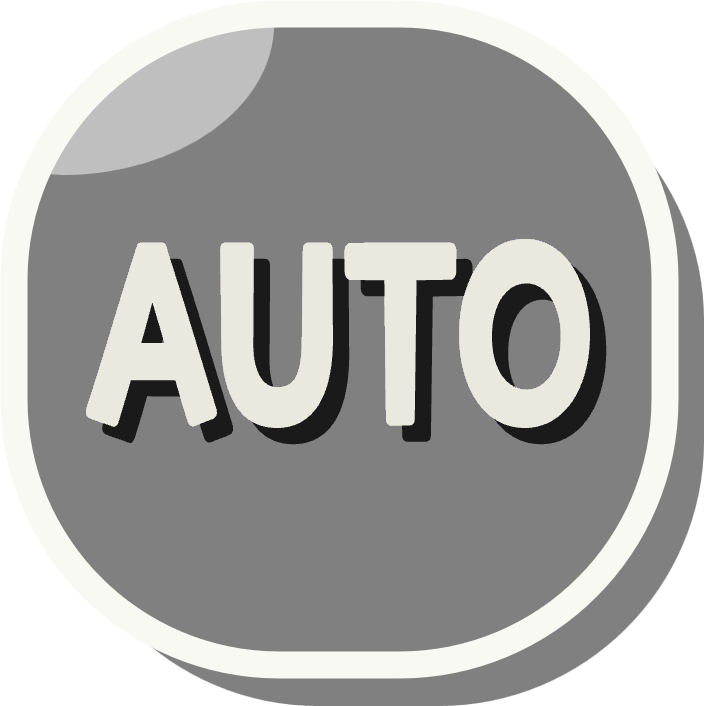
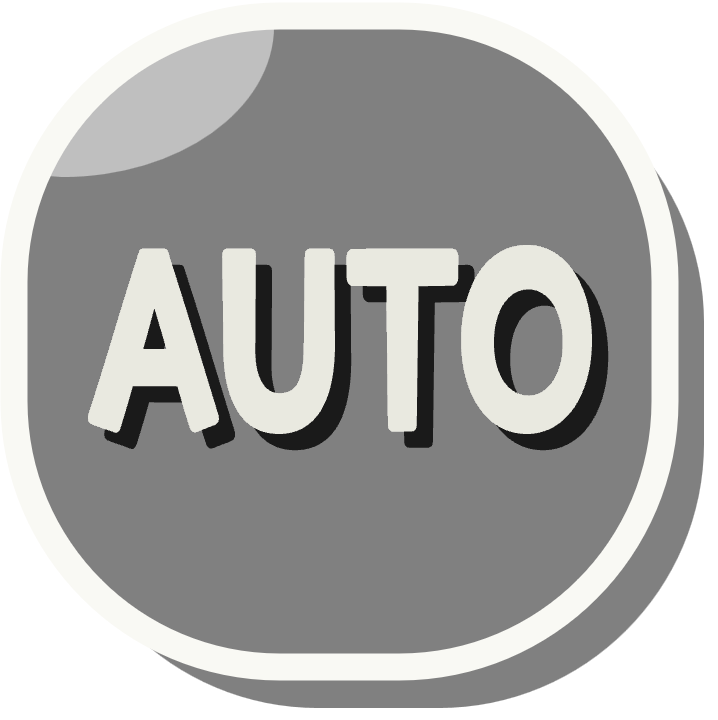
2058.1000 기능 개선

diff --git a/stylesheets/menu.css b/stylesheets/menu.css
@@ -3,15 +3,14 @@
   --c-menu-shadow: oklch(0% 0 0/0.1);
   --op-menu-shadow: 0 2px 3px var(--c-menu-shadow);
 
-  --i-menu-size: 48px;
+  --i-menu-size: 40px;
 }
 
 /* 주 메뉴 영역 */
 #menu-area {
   display: flex;
   position: absolute;
-  padding: var(--p);
-  gap: var(--p);
+  padding: 0;
   top: 0;
   left: 0;
   z-index: 1;
@@ -38,6 +37,7 @@
 
 #sidezone {
   position: relative;
+  padding: var(--p);
   z-index: 0;
 
   width: 100%;
@@ -56,9 +56,9 @@
   height: 100%;
 
   /* outline: solid 1px var(--c-border); */
-  border: solid 1px var(--c-border);
+  /* border: solid 1px var(--c-border); */
   /* border-radius: var(--r); */
-  border-radius: calc((var(--i-menu-size) + 2px + var(--p-small)*2)/2);
+  border-radius: 0 12px 12px 0;
   animation: cubic-bezier(.17, .67, .49, .99) 0.25s ani-window-in;
   box-shadow: var(--op-menu-shadow);
   pointer-events: auto;
@@ -331,7 +331,7 @@
   height: calc(var(--i-menu-size) + 2px + var(--p-small)*2);
 
   border: solid 1px var(--c-border);
-  border-radius: calc((var(--i-menu-size) + 2px + var(--p-small)*2)/2);
+  border-radius: 12px;
   background-color: oklch(from var(--c-main) l c h/0.9);
   box-shadow: var(--op-menu-shadow);
   backdrop-filter: blur(30px);
@@ -407,12 +407,12 @@
 .float-menu > a {
   padding: unset;
   justify-content: center;
-  padding: var(--p-large);
+  padding: var(--p);
   
   min-width: var(--i-menu-size);
   min-height: var(--i-menu-size);
   
-  border-radius: calc(var(--i-menu-size)/2);
+  border-radius: 8px;
   background-color: unset;
 }
 .float-menu > button:focus,

diff --git a/lyra/stylesheets/palettes/lyra-palette-immersive.css b/lyra/stylesheets/palettes/lyra-palette-immersive.css
@@ -15,21 +15,21 @@
   --acryl-blur: blur(30px);
   --acryl-blur-light: blur(15px);
 
-  --input-minimum: 44px;
-  --input-radius: 22px;
+  --input-minimum: 36px;
+  --input-radius: 8px;
   --input-background: oklch(from var(--accent) l 0.2 h/0.1);
 
-  --button-minimum: 44px;
-  --button-padding: 12px;
+  --button-minimum: 40px;
+  --button-padding: 10px;
   --button-gap: 4px;
-  --button-radius: 22px;
+  --button-radius: 8px;
   --button-background: oklch(from var(--accent) l 0.2 h/0.1);
 
-  --select-minimum: 44px;
-  --select-radius: 22px;
+  --select-minimum: 36px;
+  --select-radius: 8px;
   --select-background: oklch(from var(--accent) l 0.2 h/0.1);
 
-  --label-padding: 10px;
+  --label-padding: 8px;
 
   --toggle-width: 50px;
   --toggle-height: 30px;
@@ -49,7 +49,7 @@
 
   --menuset-padding: 4px;
   --menuset-gap: 2px;
-  --menuset-size: 48px;
+  --menuset-size: 40px;
   --menuset-radius: calc((var(--menuset-size) + 2px + var(--menuset-padding)*2)/2);
   --menuset-border: var(--acryl-border);
   --menuset-background: var(--acryl-background);

diff --git a/stylesheets/splash.css b/stylesheets/splash.css
@@ -86,7 +86,6 @@
   display: flex;
   position: absolute;
   justify-content: center;
-  padding: var(--p);
   left: 0;
   top: 0;
   z-index: 10000;
@@ -109,8 +108,8 @@
   width: auto;
   height: auto;
   
-  border: solid 1px var(--c-border);
-  border-radius: calc((var(--i-menu-size) + 2px + var(--p-small)*2)/2);
+  /* border: solid 1px var(--c-border); */
+  border-radius: 0 0 12px 12px;
   background-color: oklch(from var(--c-main) l c h/0.9);
   box-shadow: var(--op-menu-shadow);
   backdrop-filter: blur(30px);
@@ -160,12 +159,12 @@
 #immersive-splash button {
   padding: unset;
   justify-content: center;
-  padding: var(--p-large);
+  padding: var(--p);
   
-  min-width: var(--i-menu-size);
-  min-height: var(--i-menu-size);
+  min-width: 36px;
+  min-height: 36px;
   
-  border-radius: calc(var(--i-menu-size)/2);
+  border-radius: 8px;
   background-color: unset;
 }
 #immersive-splash button:focus { outline: unset; }

diff --git a/stylesheets/context-menu.css b/stylesheets/context-menu.css
@@ -16,7 +16,7 @@
   height: max-content;
   
   border: solid 1px var(--c-border);
-  border-radius: calc((var(--i-menu-size) + 2px + var(--p-small)*2)/2);
+  border-radius: 12px;
   background-color: oklch(from var(--c-main) l c h/0.9);
   box-shadow: var(--op-menu-shadow);
   backdrop-filter: blur(30px);
@@ -30,12 +30,12 @@
 .context-menu button {
   padding: unset;
   justify-content: center;
-  padding: var(--p-large);
+  padding: var(--p);
   
-  min-width: var(--i-menu-size);
-  min-height: var(--i-menu-size);
+  min-width: 40px;
+  min-height: 40px;
   
-  border-radius: calc(var(--i-menu-size)/2);
+  border-radius: 8px;
   background-color: unset;
 }
 .context-menu button:focus { outline: unset; }

diff --git a/scripts/pictor.js b/scripts/pictor.js
@@ -11,8 +11,8 @@ import {
     name: "Pictor",
     author: "Acherium",
     contact: "acherium@pm.me",
-    version: "2057.1001",
-    date: "25-08-08",
+    version: "2058.1000",
+    date: "25-08-09",
     docType: "Pictor Project File",
     docVersion: 9,
     watermark: false,
@@ -111,7 +111,7 @@ import {
   const HEIGHTMAX = 2000;
   const RATIOCHECKER = 1000;
   const THUMBNAIL_QUEUE_INTERVAL = 3000;
-  const SCALEMIN = 0.2;
+  const SCALEMIN = 1;
   const SCALEMAX = 2;
   const SCALESTEPS = 0.2;
   const OPACITYMIN = 0;

diff --git a/index.html b/index.html
@@ -540,6 +540,7 @@
           </div>
           <div id="photo-overlay-bg"></div>
           <div id="photo-button-area">
+            <img src="./assets/theater/misc/button-back.png" class="photo-button">
             <img src="./assets/theater/misc/button-auto.png" class="photo-button">
             <img src="./assets/theater/misc/button-menu.png" class="photo-button">
           </div>

diff --git a/stylesheets/main.css b/stylesheets/main.css
@@ -35,7 +35,7 @@ span.key-hint {
 input[type=text], input[type=number] { height: 44px; }
 label:has(input[type=text]) > input,
 label:has(input[type=number]) > input { height: 24px; }
-select { height: 44px; }
+select { height: 40px; }
 button { height: max-content; }
 
 .modal .content {

diff --git a/lyra/stylesheets/parts/functional/lyra-select.css b/lyra/stylesheets/parts/functional/lyra-select.css
@@ -4,11 +4,11 @@ select:disabled { cursor: no-drop; }
 
 select {
   margin: 0;
-  padding: 10px;
+  padding: 8px;
   box-sizing: border-box;
 
   min-width: var(--select-minimum);
-  min-height: var(--select-minimum);
+  height: var(--select-minimum);
 
   font-size: 12pt;
   border: 0;
